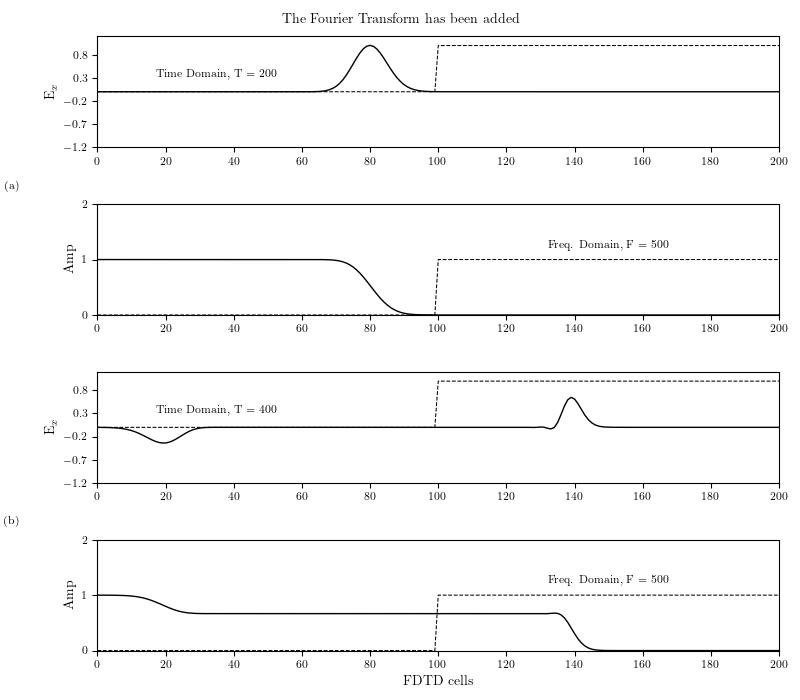
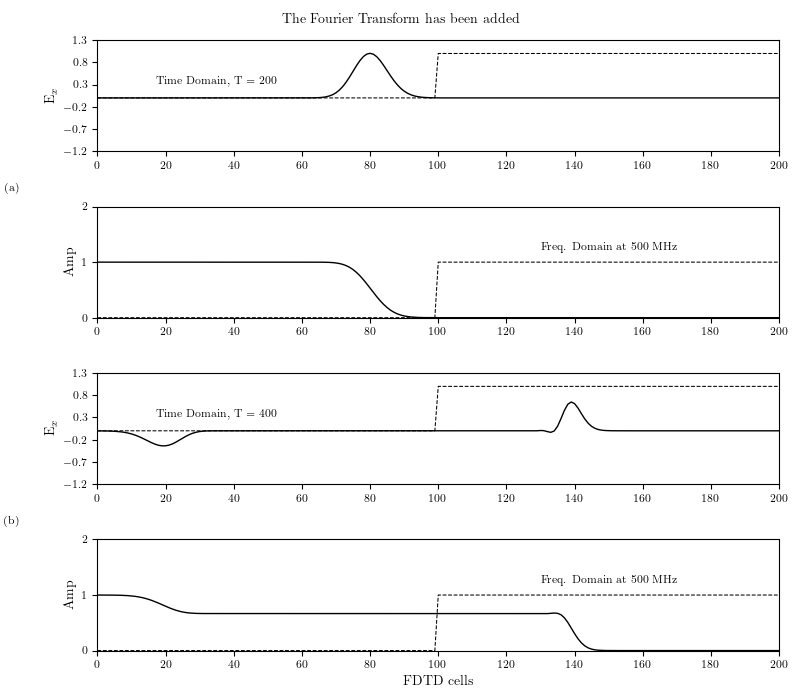
implementation of discrete fourier transform

diff --git a/FD1D/Programs/fd1d_2_2.py b/FD1D/Programs/fd1d_2_2.py
@@ -3,7 +3,8 @@
 # Name: D.Saravanan
 # Date: 07/12/2021
 
-""" The Fourier Transform has been added """
+""" Simulation of a pulse striking a dielectric medium and implements
+    the discrete Fourier transform with a Gaussian pulse as its source """
 
 import matplotlib
 import matplotlib.pyplot as plt
@@ -70,7 +71,7 @@ nsteps = 400
 
 # FDTD loop
 for time_step in range(1, nsteps + 1):
-    
+
     # calculate the Dx flux
     for k in range(1, ke):
         Dx[k] = Dx[k] + 0.5 * (hy[k - 1] - hy[k])
@@ -86,8 +87,8 @@ for time_step in range(1, nsteps + 1):
     # calculate the Fourier transform of Ex
     for k in range(ke):
         for m in range(nfreq):
-            real_pt[m, k] = real_pt[m, k] + np.cos(2*np.pi * m* dt * time_step) * ex[k]
-            imag_pt[m, k] = imag_pt[m, k] - np.sin(2*np.pi*m*dt*time_step) * ex[k]
+            real_pt[m, k] = real_pt[m, k] + np.cos(2*np.pi * m * dt * time_step) * ex[k]
+            imag_pt[m, k] = imag_pt[m, k] - np.sin(2*np.pi * m * dt * time_step) * ex[k]
 
     # fourier transform of the input pulse
     if time_step < 100:
@@ -108,39 +109,41 @@ for time_step in range(1, nsteps + 1):
     # save data at certain points for plotting
     for plot_data in points:
         if time_step == plot_data["num_steps"]:
-            
+
             # calculate the amplitude and phase at each frequency
             for m in range(nfreq):
                 amp_in[m] = np.sqrt(real_in[m]**2 + imag_in[m]**2)
-                phase_in[m] = np.arctan2(real_in[m], imag_in[m])
+                phase_in[m] = np.arctan2(imag_in[m], real_in[m])
 
                 for k in range(ke):
-                    amp[m,k] = (1/amp_in[m]) * np.sqrt(real_pt[m,k]**2 + imag_pt[m,k]**2)
-                    phase[m,k] = np.arctan2(real_pt[m,k] , imag_pt[m,k]) - phase_in[m]
+                    amp[m, k] = (1/amp_in[m]) * np.sqrt(real_pt[m, k]**2 + imag_pt[m, k]**2)
+                    phase[m, k] = np.arctan2(imag_pt[m, k], real_pt[m, k]) - phase_in[m]
 
             plot_data["ex"] = np.copy(ex)
             plot_data["amp"] = np.copy(amp)
             plot_data["phase"] = np.copy(phase)
 
-fig = plt.figure(figsize=(8,7))
+fig = plt.figure(figsize=(8, 7))
 fig.suptitle(r"The Fourier Transform has been added")
+
 
 def plotting_ex(data, ga, time_step, label_ab):
     """plot of E field at a single time step"""
     ax.plot(data, color="k", linewidth=1)
     ax.plot(-(ga - 1)/0.75, 'k--', linewidth=0.75)
     ax.set(xlim=(0, 200), ylim=(-1.2, 1.2), ylabel=r"E$_x$")
-    ax.set(xticks=np.arange(0,220,20), yticks=np.arange(-1.2, 1.4, 0.5))
+    ax.set(xticks=np.arange(0, 220, 20), yticks=np.arange(-1.2, 1.4, 0.5))
     ax.text(35, 0.3, "Time Domain, T = {}".format(time_step), horizontalalignment="center")
     ax.text(-25, -2.1, label_ab, horizontalalignment="center")
     return
+
 
 def plotting_amp(data, ga, freq, label):
     """plot of the Fourier transform amplitude at a single time step"""
     ax.plot(data[0], color='k', linewidth=1)
     ax.plot(-(ga - 1)/0.75, 'k--', linewidth=0.75)
-    ax.set(xlim=(0,200), ylim=(0,2), xlabel=r"{}".format(label), ylabel=r"Amp")
-    ax.set(xticks=np.arange(0,220,20), yticks=np.arange(0,3,1))
+    ax.set(xlim=(0, 200), ylim=(0, 2), xlabel=r"{}".format(label), ylabel=r"Amp")
+    ax.set(xticks=np.arange(0, 220, 20), yticks=np.arange(0, 3, 1))
     ax.text(150, 1.2, "Freq. Domain at {} MHz".format(int(round(freq[0]/1e6))), horizontalalignment="center")
     return
 
